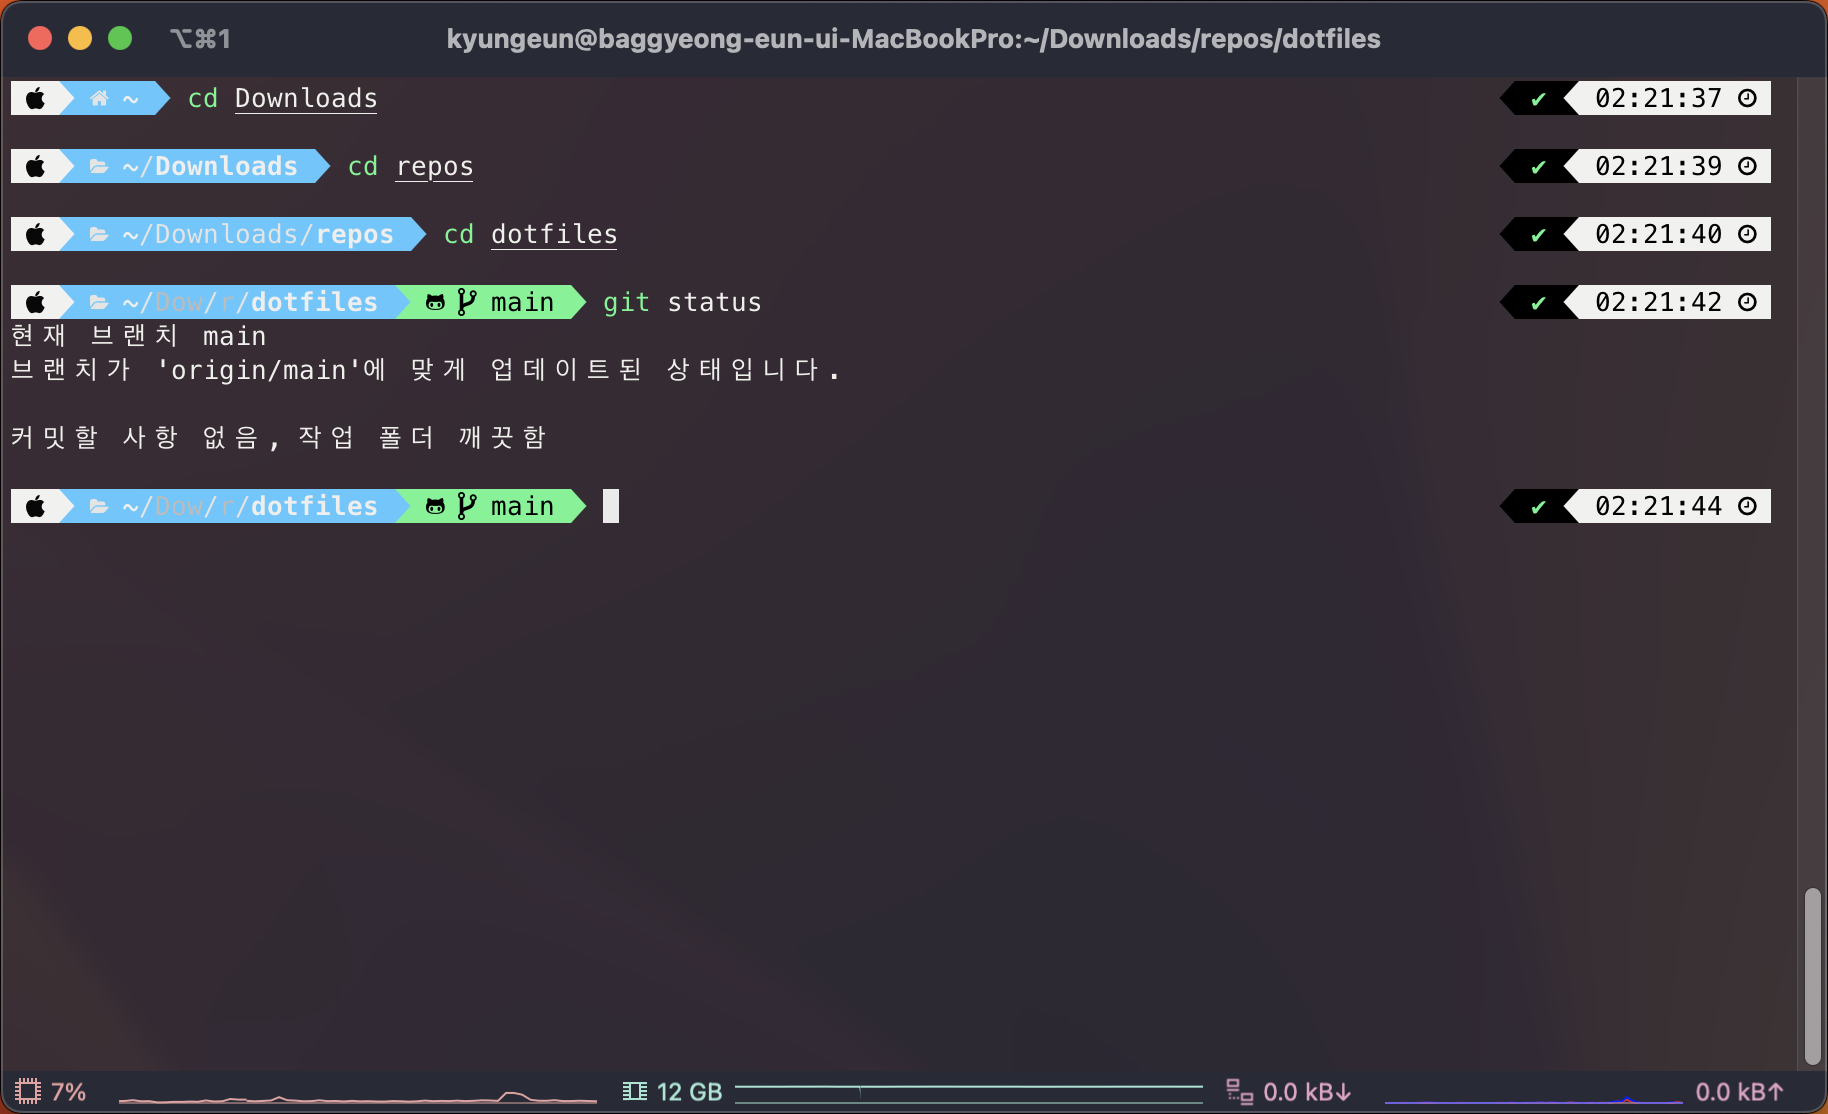
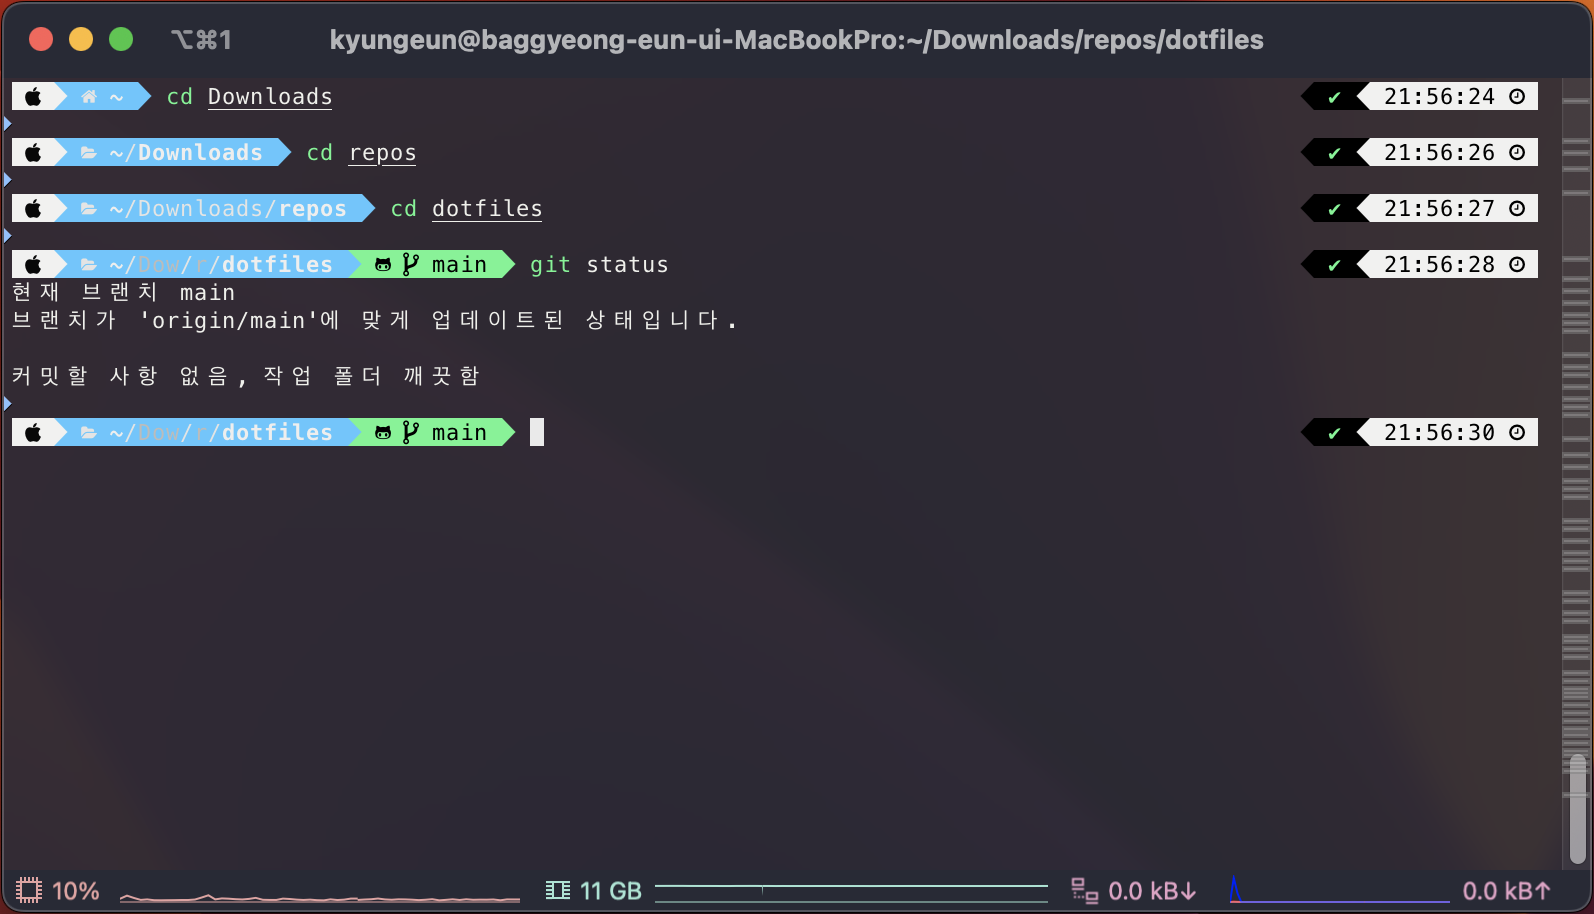
docs: 변경된 iTerm2 img 보강

Changed region(s): [[0.0, 0.0, 1.0, 1.0]]

diff --git a/README.md b/README.md
@@ -6,15 +6,16 @@
           <img src="./windows-terminal.png" alt="Windows Terminal" width="500" />
         </td>
         <td>
-          <img src="./windows-terminal-neovim.png" alt="Windows Terminal Neovim" width="500" />
+          <img src="./windows-terminal-nvim.png" alt="Windows Terminal Neovim" width="500" />
         </td>
       </tr>
+      <!-- iterm2 캡처할 때 110X28 사이즈로 찍으면 됩니다. -->
       <tr>
         <td>
-          <img src="./iterm2.png" alt="iTerm2" width="470" />
+          <img src="./iterm2.png" alt="iTerm2" width="500" />
         </td>
         <td>
-          <!-- TODO: 사진 추가 예정 -->
+          <img src="./iterm2-nvim.png" alt="iTerm2 Neovim" width="500" />
         </td>
       </tr>
     </tbody>
